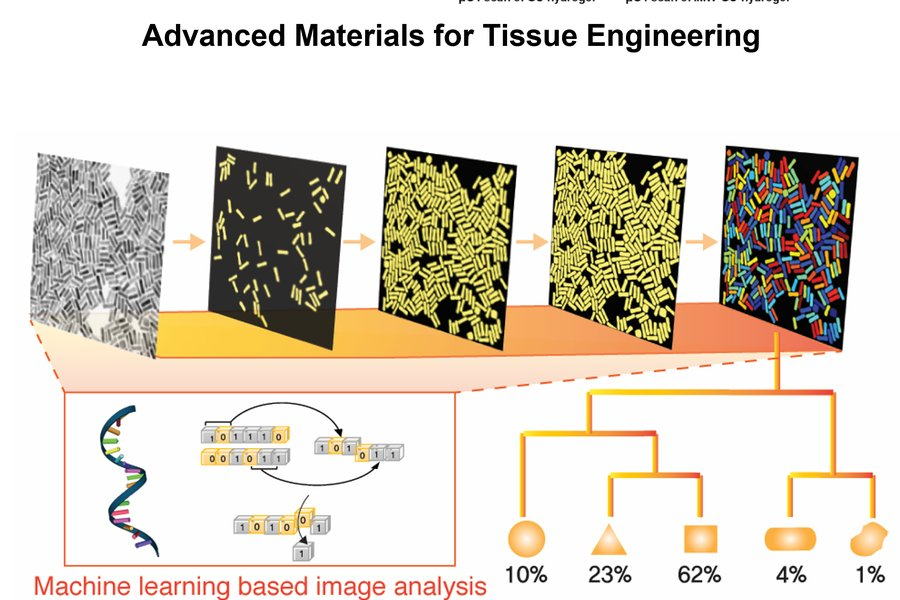
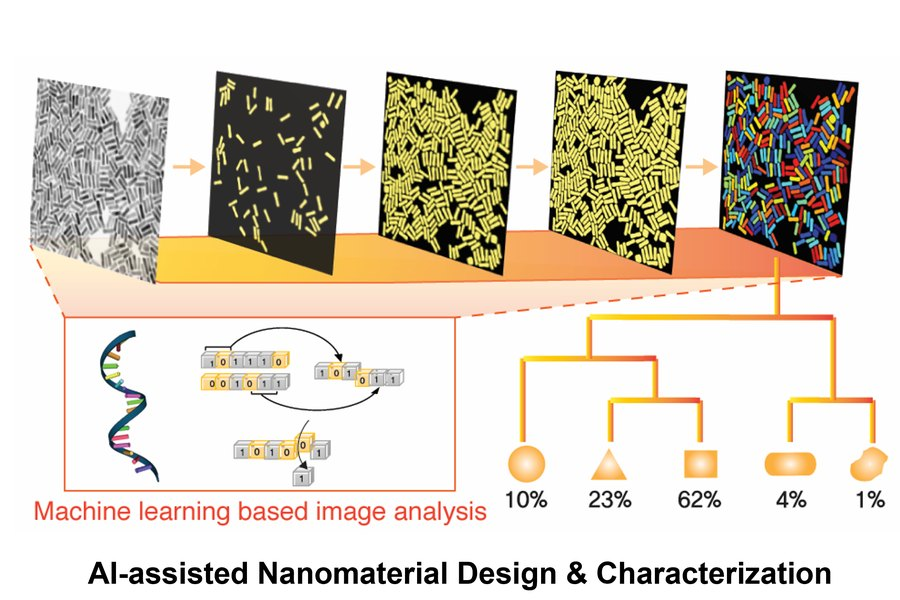
Refine research card figures, header identity and hero framing

diff --git a/index.html b/index.html
@@ -16,7 +16,7 @@
 <meta name="twitter:card" content="summary_large_image">
 <link rel="icon" href="assets/favicon.ico" sizes="16x16">
 <link rel="preload" href="assets/fonts/os-400-latin.woff2" as="font" type="font/woff2" crossorigin>
-<link rel="stylesheet" href="assets/style.css?v=473b8e75">
+<link rel="stylesheet" href="assets/style.css?v=a89880c4">
 </head>
 <body>
 <a class="skip-link" href="#content">Skip to content</a>
@@ -37,12 +37,9 @@
         <img src="assets/lab-logo.png" alt="Biological &amp; Nanoscale Materials Lab" width="405" height="45">
       </a>
       <span class="brand-divider" aria-hidden="true"></span>
-      <img class="school-mark" src="assets/skku-logo.jpg" alt="Sungkyunkwan University" width="46" height="46">
-      <p class="brand-text">
-        <b>Biological &amp; Nanoscale Materials Lab</b>
-        <a href="http://amse.skku.edu" target="_blank" rel="noopener">Advanced Materials Science &amp; Engineering</a> ·
-        <a href="https://www.skku.edu/eng/" target="_blank" rel="noopener">SKKU</a>
-      </p>
+      <a class="school-link" href="http://amse.skku.edu" target="_blank" rel="noopener" aria-label="School of Advanced Materials Science & Engineering, SKKU">
+        <img class="school-mark" src="assets/skku-logo.jpg" alt="Sungkyunkwan University" width="38" height="38">
+      </a>
     </div>
     <nav class="mainnav" aria-label="Main">
 <button class="menu-toggle" aria-expanded="false" aria-controls="primary-menu"><span class="bars"><span></span><span></span><span></span></span>Menu</button>
@@ -119,7 +116,7 @@
       </div>
       <a class="more" href="research/">All research topics <svg class="" viewBox="0 0 24 24" fill="none" stroke="currentColor" stroke-width="1.8" stroke-linecap="round" stroke-linejoin="round" aria-hidden="true"><path d="M5 12h14M13 6l6 6-6 6"/></svg></a>
     </div>
-    <div class="card-grid"><article class="card reveal"><a class="card-media" href="research/"><img src="assets/research-sensor.jpg" alt="Biomedical &amp; Environmental Sensors" loading="lazy" width="900" height="560"></a><div class="card-body"><span class="card-num">RESEARCH 01</span><h3>Biomedical &amp; Environmental Sensors</h3><p>Gold-nanoparticle, DNA and hydrogel transducers that turn molecular recognition into a colour anyone can read — for diagnostics, water quality and point-of-care testing.</p><a class="card-link" href="research/">Read more <svg class="" viewBox="0 0 24 24" fill="none" stroke="currentColor" stroke-width="1.8" stroke-linecap="round" stroke-linejoin="round" aria-hidden="true"><path d="M5 12h14M13 6l6 6-6 6"/></svg></a></div></article><article class="card reveal"><a class="card-media" href="research/"><img src="assets/research-bio.jpg" alt="Bio-derived Eco-friendly Materials" loading="lazy" width="900" height="560"></a><div class="card-body"><span class="card-num">RESEARCH 02</span><h3>Bio-derived Eco-friendly Materials</h3><p>Flame-retardant and sustainable materials built from biomolecules such as RNA, ATP, chitosan and cellulose — replacing halogenated chemistry with green alternatives.</p><a class="card-link" href="research/">Read more <svg class="" viewBox="0 0 24 24" fill="none" stroke="currentColor" stroke-width="1.8" stroke-linecap="round" stroke-linejoin="round" aria-hidden="true"><path d="M5 12h14M13 6l6 6-6 6"/></svg></a></div></article><article class="card reveal"><a class="card-media" href="research/"><img src="assets/research-ai.jpg" alt="AI-assisted Materials Design" loading="lazy" width="900" height="560"></a><div class="card-body"><span class="card-num">RESEARCH 03</span><h3>AI-assisted Materials Design</h3><p>Machine-learning image analysis, autonomous research agents and simulation-guided design that shorten the path from a nanostructure to a validated material.</p><a class="card-link" href="research/">Read more <svg class="" viewBox="0 0 24 24" fill="none" stroke="currentColor" stroke-width="1.8" stroke-linecap="round" stroke-linejoin="round" aria-hidden="true"><path d="M5 12h14M13 6l6 6-6 6"/></svg></a></div></article></div>
+    <div class="card-grid"><article class="card reveal"><a class="card-media" href="research/"><img src="assets/research-sensor.jpg" alt="Biomedical &amp; Environmental Sensors" loading="lazy" width="900" height="600"></a><div class="card-body"><span class="card-num">RESEARCH 01</span><h3>Biomedical &amp; Environmental Sensors</h3><p>Gold-nanoparticle, DNA and hydrogel transducers that turn molecular recognition into a colour anyone can read — for diagnostics, water quality and point-of-care testing.</p><a class="card-link" href="research/">Read more <svg class="" viewBox="0 0 24 24" fill="none" stroke="currentColor" stroke-width="1.8" stroke-linecap="round" stroke-linejoin="round" aria-hidden="true"><path d="M5 12h14M13 6l6 6-6 6"/></svg></a></div></article><article class="card reveal"><a class="card-media" href="research/"><img src="assets/research-bio.jpg" alt="Bio-derived Eco-friendly Materials" loading="lazy" width="900" height="600"></a><div class="card-body"><span class="card-num">RESEARCH 02</span><h3>Bio-derived Eco-friendly Materials</h3><p>Flame-retardant and sustainable materials built from biomolecules such as RNA, ATP, chitosan and cellulose — replacing halogenated chemistry with green alternatives.</p><a class="card-link" href="research/">Read more <svg class="" viewBox="0 0 24 24" fill="none" stroke="currentColor" stroke-width="1.8" stroke-linecap="round" stroke-linejoin="round" aria-hidden="true"><path d="M5 12h14M13 6l6 6-6 6"/></svg></a></div></article><article class="card reveal"><a class="card-media" href="research/"><img src="assets/research-ai.jpg" alt="AI-assisted Materials Design" loading="lazy" width="900" height="600"></a><div class="card-body"><span class="card-num">RESEARCH 03</span><h3>AI-assisted Materials Design</h3><p>Machine-learning image analysis, autonomous research agents and simulation-guided design that shorten the path from a nanostructure to a validated material.</p><a class="card-link" href="research/">Read more <svg class="" viewBox="0 0 24 24" fill="none" stroke="currentColor" stroke-width="1.8" stroke-linecap="round" stroke-linejoin="round" aria-hidden="true"><path d="M5 12h14M13 6l6 6-6 6"/></svg></a></div></article></div>
   </div>
 </section>
 

diff --git a/assets/style.css b/assets/style.css
@@ -122,7 +122,7 @@ figure{margin:0}
 .site-header.scrolled .brand-link img{height:31px}
 .school-mark{height:38px;width:38px;border-radius:50%;object-fit:contain;flex:none}
 .brand-divider{width:1px;height:34px;background:var(--line);flex:none}
-.brand-text{font-size:11.5px;line-height:1.3;color:var(--muted);letter-spacing:.01em;max-width:196px;margin:0}
+.school-link{display:inline-flex;align-items:center}
 .brand-text b{display:block;color:var(--ink);font-weight:600;font-size:12px}
 .brand-text a{color:var(--muted)}
 .brand-text a:hover{color:var(--green-700)}
@@ -185,7 +185,7 @@ figure{margin:0}
   color:#fff;isolation:isolate;
 }
 .hero-media{position:absolute;inset:0;z-index:-2}
-.hero-media img{width:100%;height:100%;object-fit:cover;object-position:center 38%}
+.hero-media img{width:100%;height:100%;object-fit:cover;object-position:center 58%}
 .hero::after{
   content:"";position:absolute;inset:0;z-index:-1;
   background:
@@ -204,8 +204,8 @@ figure{margin:0}
 .eyebrow::before{content:"";width:28px;height:2px;background:currentColor;border-radius:2px}
 .hero .eyebrow{color:#d8c9a4}
 .hero h1{
-  color:#fff;font-size:clamp(30px,4.2vw,54px);line-height:1.1;letter-spacing:-.02em;
-  margin:0 0 20px;max-width:19ch;font-weight:700;
+  color:#fff;font-size:clamp(30px,3.9vw,50px);line-height:1.12;letter-spacing:-.02em;
+  margin:0 0 20px;max-width:23ch;font-weight:700;
 }
 .hero p.lead{
   font-size:clamp(15px,1.25vw,18px);line-height:1.65;color:rgba(255,255,255,.86);
@@ -304,7 +304,7 @@ figure{margin:0}
   transition:transform .25s var(--ease),box-shadow .25s,border-color .25s;
 }
 .card:hover{transform:translateY(-4px);box-shadow:var(--shadow-md);border-color:var(--green-100)}
-.card-media{position:relative;aspect-ratio:16/10;background:var(--green-50);overflow:hidden}
+.card-media{position:relative;aspect-ratio:3/2;background:#fff;overflow:hidden;border-bottom:1px solid var(--line-soft)}
 .card-media img{width:100%;height:100%;object-fit:cover;transition:transform .5s var(--ease)}
 .card:hover .card-media img{transform:scale(1.04)}
 .card-body{padding:26px 26px 28px;display:flex;flex-direction:column;gap:10px;flex:1}

diff --git a/publications/2016-2020/index.html b/publications/2016-2020/index.html
@@ -16,7 +16,7 @@
 <meta name="twitter:card" content="summary_large_image">
 <link rel="icon" href="../../assets/favicon.ico" sizes="16x16">
 <link rel="preload" href="../../assets/fonts/os-400-latin.woff2" as="font" type="font/woff2" crossorigin>
-<link rel="stylesheet" href="../../assets/style.css?v=473b8e75">
+<link rel="stylesheet" href="../../assets/style.css?v=a89880c4">
 </head>
 <body>
 <a class="skip-link" href="#content">Skip to content</a>
@@ -37,12 +37,9 @@
         <img src="../../assets/lab-logo.png" alt="Biological &amp; Nanoscale Materials Lab" width="405" height="45">
       </a>
       <span class="brand-divider" aria-hidden="true"></span>
-      <img class="school-mark" src="../../assets/skku-logo.jpg" alt="Sungkyunkwan University" width="46" height="46">
-      <p class="brand-text">
-        <b>Biological &amp; Nanoscale Materials Lab</b>
-        <a href="http://amse.skku.edu" target="_blank" rel="noopener">Advanced Materials Science &amp; Engineering</a> ·
-        <a href="https://www.skku.edu/eng/" target="_blank" rel="noopener">SKKU</a>
-      </p>
+      <a class="school-link" href="http://amse.skku.edu" target="_blank" rel="noopener" aria-label="School of Advanced Materials Science & Engineering, SKKU">
+        <img class="school-mark" src="../../assets/skku-logo.jpg" alt="Sungkyunkwan University" width="38" height="38">
+      </a>
     </div>
     <nav class="mainnav" aria-label="Main">
 <button class="menu-toggle" aria-expanded="false" aria-controls="primary-menu"><span class="bars"><span></span><span></span><span></span></span>Menu</button>

diff --git a/publications/before-2015/index.html b/publications/before-2015/index.html
@@ -16,7 +16,7 @@
 <meta name="twitter:card" content="summary_large_image">
 <link rel="icon" href="../../assets/favicon.ico" sizes="16x16">
 <link rel="preload" href="../../assets/fonts/os-400-latin.woff2" as="font" type="font/woff2" crossorigin>
-<link rel="stylesheet" href="../../assets/style.css?v=473b8e75">
+<link rel="stylesheet" href="../../assets/style.css?v=a89880c4">
 </head>
 <body>
 <a class="skip-link" href="#content">Skip to content</a>
@@ -37,12 +37,9 @@
         <img src="../../assets/lab-logo.png" alt="Biological &amp; Nanoscale Materials Lab" width="405" height="45">
       </a>
       <span class="brand-divider" aria-hidden="true"></span>
-      <img class="school-mark" src="../../assets/skku-logo.jpg" alt="Sungkyunkwan University" width="46" height="46">
-      <p class="brand-text">
-        <b>Biological &amp; Nanoscale Materials Lab</b>
-        <a href="http://amse.skku.edu" target="_blank" rel="noopener">Advanced Materials Science &amp; Engineering</a> ·
-        <a href="https://www.skku.edu/eng/" target="_blank" rel="noopener">SKKU</a>
-      </p>
+      <a class="school-link" href="http://amse.skku.edu" target="_blank" rel="noopener" aria-label="School of Advanced Materials Science & Engineering, SKKU">
+        <img class="school-mark" src="../../assets/skku-logo.jpg" alt="Sungkyunkwan University" width="38" height="38">
+      </a>
     </div>
     <nav class="mainnav" aria-label="Main">
 <button class="menu-toggle" aria-expanded="false" aria-controls="primary-menu"><span class="bars"><span></span><span></span><span></span></span>Menu</button>

diff --git a/alumni/index.html b/alumni/index.html
@@ -16,7 +16,7 @@
 <meta name="twitter:card" content="summary_large_image">
 <link rel="icon" href="../assets/favicon.ico" sizes="16x16">
 <link rel="preload" href="../assets/fonts/os-400-latin.woff2" as="font" type="font/woff2" crossorigin>
-<link rel="stylesheet" href="../assets/style.css?v=473b8e75">
+<link rel="stylesheet" href="../assets/style.css?v=a89880c4">
 </head>
 <body>
 <a class="skip-link" href="#content">Skip to content</a>
@@ -37,12 +37,9 @@
         <img src="../assets/lab-logo.png" alt="Biological &amp; Nanoscale Materials Lab" width="405" height="45">
       </a>
       <span class="brand-divider" aria-hidden="true"></span>
-      <img class="school-mark" src="../assets/skku-logo.jpg" alt="Sungkyunkwan University" width="46" height="46">
-      <p class="brand-text">
-        <b>Biological &amp; Nanoscale Materials Lab</b>
-        <a href="http://amse.skku.edu" target="_blank" rel="noopener">Advanced Materials Science &amp; Engineering</a> ·
-        <a href="https://www.skku.edu/eng/" target="_blank" rel="noopener">SKKU</a>
-      </p>
+      <a class="school-link" href="http://amse.skku.edu" target="_blank" rel="noopener" aria-label="School of Advanced Materials Science & Engineering, SKKU">
+        <img class="school-mark" src="../assets/skku-logo.jpg" alt="Sungkyunkwan University" width="38" height="38">
+      </a>
     </div>
     <nav class="mainnav" aria-label="Main">
 <button class="menu-toggle" aria-expanded="false" aria-controls="primary-menu"><span class="bars"><span></span><span></span><span></span></span>Menu</button>

diff --git a/gallery/index.html b/gallery/index.html
@@ -16,7 +16,7 @@
 <meta name="twitter:card" content="summary_large_image">
 <link rel="icon" href="../assets/favicon.ico" sizes="16x16">
 <link rel="preload" href="../assets/fonts/os-400-latin.woff2" as="font" type="font/woff2" crossorigin>
-<link rel="stylesheet" href="../assets/style.css?v=473b8e75">
+<link rel="stylesheet" href="../assets/style.css?v=a89880c4">
 </head>
 <body>
 <a class="skip-link" href="#content">Skip to content</a>
@@ -37,12 +37,9 @@
         <img src="../assets/lab-logo.png" alt="Biological &amp; Nanoscale Materials Lab" width="405" height="45">
       </a>
       <span class="brand-divider" aria-hidden="true"></span>
-      <img class="school-mark" src="../assets/skku-logo.jpg" alt="Sungkyunkwan University" width="46" height="46">
-      <p class="brand-text">
-        <b>Biological &amp; Nanoscale Materials Lab</b>
-        <a href="http://amse.skku.edu" target="_blank" rel="noopener">Advanced Materials Science &amp; Engineering</a> ·
-        <a href="https://www.skku.edu/eng/" target="_blank" rel="noopener">SKKU</a>
-      </p>
+      <a class="school-link" href="http://amse.skku.edu" target="_blank" rel="noopener" aria-label="School of Advanced Materials Science & Engineering, SKKU">
+        <img class="school-mark" src="../assets/skku-logo.jpg" alt="Sungkyunkwan University" width="38" height="38">
+      </a>
     </div>
     <nav class="mainnav" aria-label="Main">
 <button class="menu-toggle" aria-expanded="false" aria-controls="primary-menu"><span class="bars"><span></span><span></span><span></span></span>Menu</button>

diff --git a/group/index.html b/group/index.html
@@ -16,7 +16,7 @@
 <meta name="twitter:card" content="summary_large_image">
 <link rel="icon" href="../assets/favicon.ico" sizes="16x16">
 <link rel="preload" href="../assets/fonts/os-400-latin.woff2" as="font" type="font/woff2" crossorigin>
-<link rel="stylesheet" href="../assets/style.css?v=473b8e75">
+<link rel="stylesheet" href="../assets/style.css?v=a89880c4">
 </head>
 <body>
 <a class="skip-link" href="#content">Skip to content</a>
@@ -37,12 +37,9 @@
         <img src="../assets/lab-logo.png" alt="Biological &amp; Nanoscale Materials Lab" width="405" height="45">
       </a>
       <span class="brand-divider" aria-hidden="true"></span>
-      <img class="school-mark" src="../assets/skku-logo.jpg" alt="Sungkyunkwan University" width="46" height="46">
-      <p class="brand-text">
-        <b>Biological &amp; Nanoscale Materials Lab</b>
-        <a href="http://amse.skku.edu" target="_blank" rel="noopener">Advanced Materials Science &amp; Engineering</a> ·
-        <a href="https://www.skku.edu/eng/" target="_blank" rel="noopener">SKKU</a>
-      </p>
+      <a class="school-link" href="http://amse.skku.edu" target="_blank" rel="noopener" aria-label="School of Advanced Materials Science & Engineering, SKKU">
+        <img class="school-mark" src="../assets/skku-logo.jpg" alt="Sungkyunkwan University" width="38" height="38">
+      </a>
     </div>
     <nav class="mainnav" aria-label="Main">
 <button class="menu-toggle" aria-expanded="false" aria-controls="primary-menu"><span class="bars"><span></span><span></span><span></span></span>Menu</button>

diff --git a/news/index.html b/news/index.html
@@ -16,7 +16,7 @@
 <meta name="twitter:card" content="summary_large_image">
 <link rel="icon" href="../assets/favicon.ico" sizes="16x16">
 <link rel="preload" href="../assets/fonts/os-400-latin.woff2" as="font" type="font/woff2" crossorigin>
-<link rel="stylesheet" href="../assets/style.css?v=473b8e75">
+<link rel="stylesheet" href="../assets/style.css?v=a89880c4">
 </head>
 <body>
 <a class="skip-link" href="#content">Skip to content</a>
@@ -37,12 +37,9 @@
         <img src="../assets/lab-logo.png" alt="Biological &amp; Nanoscale Materials Lab" width="405" height="45">
       </a>
       <span class="brand-divider" aria-hidden="true"></span>
-      <img class="school-mark" src="../assets/skku-logo.jpg" alt="Sungkyunkwan University" width="46" height="46">
-      <p class="brand-text">
-        <b>Biological &amp; Nanoscale Materials Lab</b>
-        <a href="http://amse.skku.edu" target="_blank" rel="noopener">Advanced Materials Science &amp; Engineering</a> ·
-        <a href="https://www.skku.edu/eng/" target="_blank" rel="noopener">SKKU</a>
-      </p>
+      <a class="school-link" href="http://amse.skku.edu" target="_blank" rel="noopener" aria-label="School of Advanced Materials Science & Engineering, SKKU">
+        <img class="school-mark" src="../assets/skku-logo.jpg" alt="Sungkyunkwan University" width="38" height="38">
+      </a>
     </div>
     <nav class="mainnav" aria-label="Main">
 <button class="menu-toggle" aria-expanded="false" aria-controls="primary-menu"><span class="bars"><span></span><span></span><span></span></span>Menu</button>

diff --git a/patents/index.html b/patents/index.html
@@ -16,7 +16,7 @@
 <meta name="twitter:card" content="summary_large_image">
 <link rel="icon" href="../assets/favicon.ico" sizes="16x16">
 <link rel="preload" href="../assets/fonts/os-400-latin.woff2" as="font" type="font/woff2" crossorigin>
-<link rel="stylesheet" href="../assets/style.css?v=473b8e75">
+<link rel="stylesheet" href="../assets/style.css?v=a89880c4">
 </head>
 <body>
 <a class="skip-link" href="#content">Skip to content</a>
@@ -37,12 +37,9 @@
         <img src="../assets/lab-logo.png" alt="Biological &amp; Nanoscale Materials Lab" width="405" height="45">
       </a>
       <span class="brand-divider" aria-hidden="true"></span>
-      <img class="school-mark" src="../assets/skku-logo.jpg" alt="Sungkyunkwan University" width="46" height="46">
-      <p class="brand-text">
-        <b>Biological &amp; Nanoscale Materials Lab</b>
-        <a href="http://amse.skku.edu" target="_blank" rel="noopener">Advanced Materials Science &amp; Engineering</a> ·
-        <a href="https://www.skku.edu/eng/" target="_blank" rel="noopener">SKKU</a>
-      </p>
+      <a class="school-link" href="http://amse.skku.edu" target="_blank" rel="noopener" aria-label="School of Advanced Materials Science & Engineering, SKKU">
+        <img class="school-mark" src="../assets/skku-logo.jpg" alt="Sungkyunkwan University" width="38" height="38">
+      </a>
     </div>
     <nav class="mainnav" aria-label="Main">
 <button class="menu-toggle" aria-expanded="false" aria-controls="primary-menu"><span class="bars"><span></span><span></span><span></span></span>Menu</button>

diff --git a/publications/index.html b/publications/index.html
@@ -16,7 +16,7 @@
 <meta name="twitter:card" content="summary_large_image">
 <link rel="icon" href="../assets/favicon.ico" sizes="16x16">
 <link rel="preload" href="../assets/fonts/os-400-latin.woff2" as="font" type="font/woff2" crossorigin>
-<link rel="stylesheet" href="../assets/style.css?v=473b8e75">
+<link rel="stylesheet" href="../assets/style.css?v=a89880c4">
 </head>
 <body>
 <a class="skip-link" href="#content">Skip to content</a>
@@ -37,12 +37,9 @@
         <img src="../assets/lab-logo.png" alt="Biological &amp; Nanoscale Materials Lab" width="405" height="45">
       </a>
       <span class="brand-divider" aria-hidden="true"></span>
-      <img class="school-mark" src="../assets/skku-logo.jpg" alt="Sungkyunkwan University" width="46" height="46">
-      <p class="brand-text">
-        <b>Biological &amp; Nanoscale Materials Lab</b>
-        <a href="http://amse.skku.edu" target="_blank" rel="noopener">Advanced Materials Science &amp; Engineering</a> ·
-        <a href="https://www.skku.edu/eng/" target="_blank" rel="noopener">SKKU</a>
-      </p>
+      <a class="school-link" href="http://amse.skku.edu" target="_blank" rel="noopener" aria-label="School of Advanced Materials Science & Engineering, SKKU">
+        <img class="school-mark" src="../assets/skku-logo.jpg" alt="Sungkyunkwan University" width="38" height="38">
+      </a>
     </div>
     <nav class="mainnav" aria-label="Main">
 <button class="menu-toggle" aria-expanded="false" aria-controls="primary-menu"><span class="bars"><span></span><span></span><span></span></span>Menu</button>

diff --git a/research/index.html b/research/index.html
@@ -16,7 +16,7 @@
 <meta name="twitter:card" content="summary_large_image">
 <link rel="icon" href="../assets/favicon.ico" sizes="16x16">
 <link rel="preload" href="../assets/fonts/os-400-latin.woff2" as="font" type="font/woff2" crossorigin>
-<link rel="stylesheet" href="../assets/style.css?v=473b8e75">
+<link rel="stylesheet" href="../assets/style.css?v=a89880c4">
 </head>
 <body>
 <a class="skip-link" href="#content">Skip to content</a>
@@ -37,12 +37,9 @@
         <img src="../assets/lab-logo.png" alt="Biological &amp; Nanoscale Materials Lab" width="405" height="45">
       </a>
       <span class="brand-divider" aria-hidden="true"></span>
-      <img class="school-mark" src="../assets/skku-logo.jpg" alt="Sungkyunkwan University" width="46" height="46">
-      <p class="brand-text">
-        <b>Biological &amp; Nanoscale Materials Lab</b>
-        <a href="http://amse.skku.edu" target="_blank" rel="noopener">Advanced Materials Science &amp; Engineering</a> ·
-        <a href="https://www.skku.edu/eng/" target="_blank" rel="noopener">SKKU</a>
-      </p>
+      <a class="school-link" href="http://amse.skku.edu" target="_blank" rel="noopener" aria-label="School of Advanced Materials Science & Engineering, SKKU">
+        <img class="school-mark" src="../assets/skku-logo.jpg" alt="Sungkyunkwan University" width="38" height="38">
+      </a>
     </div>
     <nav class="mainnav" aria-label="Main">
 <button class="menu-toggle" aria-expanded="false" aria-controls="primary-menu"><span class="bars"><span></span><span></span><span></span></span>Menu</button>

diff --git a/researchers/index.html b/researchers/index.html
@@ -16,7 +16,7 @@
 <meta name="twitter:card" content="summary_large_image">
 <link rel="icon" href="../assets/favicon.ico" sizes="16x16">
 <link rel="preload" href="../assets/fonts/os-400-latin.woff2" as="font" type="font/woff2" crossorigin>
-<link rel="stylesheet" href="../assets/style.css?v=473b8e75">
+<link rel="stylesheet" href="../assets/style.css?v=a89880c4">
 </head>
 <body>
 <a class="skip-link" href="#content">Skip to content</a>
@@ -37,12 +37,9 @@
         <img src="../assets/lab-logo.png" alt="Biological &amp; Nanoscale Materials Lab" width="405" height="45">
       </a>
       <span class="brand-divider" aria-hidden="true"></span>
-      <img class="school-mark" src="../assets/skku-logo.jpg" alt="Sungkyunkwan University" width="46" height="46">
-      <p class="brand-text">
-        <b>Biological &amp; Nanoscale Materials Lab</b>
-        <a href="http://amse.skku.edu" target="_blank" rel="noopener">Advanced Materials Science &amp; Engineering</a> ·
-        <a href="https://www.skku.edu/eng/" target="_blank" rel="noopener">SKKU</a>
-      </p>
+      <a class="school-link" href="http://amse.skku.edu" target="_blank" rel="noopener" aria-label="School of Advanced Materials Science & Engineering, SKKU">
+        <img class="school-mark" src="../assets/skku-logo.jpg" alt="Sungkyunkwan University" width="38" height="38">
+      </a>
     </div>
     <nav class="mainnav" aria-label="Main">
 <button class="menu-toggle" aria-expanded="false" aria-controls="primary-menu"><span class="bars"><span></span><span></span><span></span></span>Menu</button>
